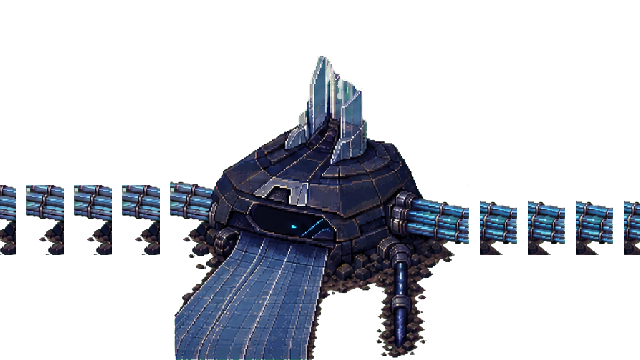
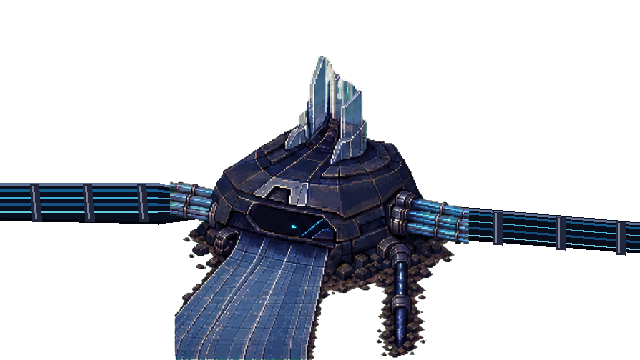
Location: author continuous coupler conduits

Changed region(s): [[0.0, 0.4889, 0.3125, 0.7333], [0.7188, 0.55, 1.0, 0.7333]]

diff --git a/horizon-archive-game/test/signalCouplerProduction.test.js b/horizon-archive-game/test/signalCouplerProduction.test.js
@@ -27,6 +27,16 @@ test("production coupler locks six bodies and animates only the membrane", async
   assert.equal(manifest.unique_screen_hashes, 6);
   assert.equal(manifest.only_screen_pixels_change, true);
   assert.equal(manifest.side_connections_reach_scene_edges, true);
+  assert.equal(manifest.side_connections_are_continuous, true);
+  assert.equal(manifest.transparent_break_count, 0);
+  assert.deepEqual(manifest.narrow_derivative_dimensions, [320, 180]);
+  assert.equal(manifest.narrow_derivative_resampling, "nearest-neighbor");
+  assert.deepEqual(manifest.connection_continuity_scanlines, {
+    left_640x360: { y: 202, x: [0, 210] },
+    right_640x360: { y: 224, x: [430, 639] },
+    left_320x180: { y: 101, x: [0, 105] },
+    right_320x180: { y: 112, x: [215, 319] },
+  });
   assert.equal(manifest.source_is_not_64px_preview, true);
   assert.equal(manifest.detail_retention_by_frame.length, 6);
   assert.ok(manifest.detail_retention_by_frame.every(({ source_subject_dimensions, normalized_subject_dimensions }) =>

diff --git a/Concept Art Book/production-pixel/AB-01/signal-coupler/build_production_signal_coupler.py b/Concept Art Book/production-pixel/AB-01/signal-coupler/build_production_signal_coupler.py
@@ -9,6 +9,7 @@ from PIL import Image, ImageChops, ImageDraw, ImageSequence
 
 ROOT = Path(__file__).resolve().parent
 SOURCE = ROOT / "terminal-signal-coupler-connected-no-tongue-tube-sheet-alpha.png"
+MEADOW_SOURCE = ROOT.parents[3] / "Glass Meadow Example.png"
 OUTPUT = ROOT / "production"
 FRAMES_DIR = OUTPUT / "frames"
 QA_DIR = OUTPUT / "qa"
@@ -95,28 +96,62 @@ def stable_objects(cells: list[Image.Image], mask: Image.Image) -> list[Image.Im
     return [Image.composite(cell, base, mask) for cell in cells]
 
 
-def extend_side_connections(scene: Image.Image, stable_object: Image.Image) -> None:
-    """Continue the approved side channels through both scene crops.
+def draw_side_connections(scene: Image.Image) -> None:
+    """Author continuous phase conduits from the coupler to both scene crops.
 
-    The extension reuses only the object's real cable pixels. It does not draw
-    replacement geometry, and it is baked into the invariant body layer.
+    The selected source already contains the collars and the first lengths of
+    both side bundles. This body layer continues their perspective beneath the
+    source object with uninterrupted substrate, then adds irregular service
+    sleeves on top. Unlike the earlier repeated-alpha method, the sleeves never
+    create transparent breaks in the load-bearing conduit.
     """
-    x_origin, y_origin = OBJECT_ORIGIN
-    segment_width = 48
-    cable_top = 145
-    cable_bottom = 215
-    left_segment = stable_object.crop((0, cable_top, segment_width, cable_bottom))
-    right_segment = stable_object.crop((OBJECT_SIZE - segment_width, cable_top, OBJECT_SIZE, cable_bottom))
+    draw = ImageDraw.Draw(scene)
 
-    x = x_origin - segment_width
-    while x > -segment_width:
-        scene.alpha_composite(left_segment, (x, y_origin + cable_top))
-        x -= segment_width
+    # Left bundle: a low four-lane bus travels beyond the left crop. Its final
+    # section runs beneath the source object so the generated collar hides the
+    # join instead of exposing a familiar loose cable end.
+    left_outer = [(0, 183), (159, 183), (210, 193), (210, 216), (158, 224), (0, 219)]
+    draw.polygon(left_outer, fill=(10, 15, 31, 255))
+    draw.line([(0, 184), (159, 184), (208, 194)], fill=(93, 111, 149, 255), width=3)
+    draw.line([(0, 218), (158, 222), (208, 215)], fill=(3, 5, 15, 255), width=4)
+    for offset, color, width in (
+        (0, (18, 97, 145, 255), 3),
+        (7, (61, 174, 214, 255), 2),
+        (14, (20, 82, 132, 255), 3),
+        (21, (103, 203, 228, 255), 2),
+    ):
+        draw.line([(0, 190 + offset), (157, 190 + offset), (207, 198 + offset // 2)], fill=color, width=width)
+    for x in (30, 83, 137):
+        draw.polygon(
+            [(x, 184), (x + 8, 184), (x + 11, 221), (x + 2, 221)],
+            fill=(35, 39, 60, 255),
+        )
+        draw.line([(x + 2, 186), (x + 5, 218)], fill=(119, 126, 154, 255), width=2)
 
-    x = x_origin + OBJECT_SIZE
-    while x < SCENE_SIZE[0]:
-        scene.alpha_composite(right_segment, (x, y_origin + cable_top))
-        x += segment_width
+    # Right bundle: perspective drops toward the lower-right crop. The varied
+    # sleeve spacing records maintenance phases without interrupting the bus.
+    right_outer = [(430, 204), (468, 207), (640, 222), (640, 253), (466, 239), (430, 235)]
+    draw.polygon(right_outer, fill=(9, 14, 29, 255))
+    draw.line([(431, 205), (468, 209), (640, 224)], fill=(94, 112, 150, 255), width=3)
+    draw.line([(431, 234), (466, 238), (640, 251)], fill=(3, 5, 14, 255), width=4)
+    for offset, color, width in (
+        (0, (21, 93, 143, 255), 3),
+        (7, (71, 187, 221, 255), 2),
+        (14, (18, 77, 126, 255), 3),
+        (21, (111, 209, 230, 255), 2),
+    ):
+        draw.line(
+            [(432, 211 + offset), (468, 213 + offset), (640, 228 + offset)],
+            fill=color,
+            width=width,
+        )
+    for x in (493, 556, 616):
+        rise = (x - 468) // 12
+        draw.polygon(
+            [(x, 209 + rise), (x + 9, 210 + rise), (x + 9, 243 + rise), (x, 242 + rise)],
+            fill=(34, 39, 61, 255),
+        )
+        draw.line([(x + 2, 211 + rise), (x + 2, 240 + rise)], fill=(121, 129, 156, 255), width=2)
 
 
 def scene_frames(objects: list[Image.Image]) -> tuple[list[Image.Image], Image.Image]:
@@ -126,7 +161,7 @@ def scene_frames(objects: list[Image.Image]) -> tuple[list[Image.Image], Image.I
     frames: list[Image.Image] = []
     for stable_object in objects:
         scene = Image.new("RGBA", SCENE_SIZE, (0, 0, 0, 0))
-        extend_side_connections(scene, objects[0])
+        draw_side_connections(scene)
         scene.alpha_composite(stable_object, OBJECT_ORIGIN)
         frames.append(scene)
     return frames, scene_mask
@@ -198,6 +233,24 @@ def save_gif(frames: list[Image.Image], path: Path) -> None:
     )
 
 
+def save_scene_qa(frame: Image.Image) -> None:
+    """Save composition evidence without merging the overlay into world art."""
+    meadow = Image.open(MEADOW_SOURCE).convert("RGBA")
+    scale = max(SCENE_SIZE[0] / meadow.width, SCENE_SIZE[1] / meadow.height)
+    resized = meadow.resize(
+        (round(meadow.width * scale), round(meadow.height * scale)),
+        Image.Resampling.LANCZOS,
+    )
+    left = (resized.width - SCENE_SIZE[0]) // 2
+    top = (resized.height - SCENE_SIZE[1]) // 2
+    background = resized.crop((left, top, left + SCENE_SIZE[0], top + SCENE_SIZE[1]))
+    background.alpha_composite(frame)
+    background.save(QA_DIR / "terminal-signal-coupler-meadow-composite-640x360.png")
+    background.resize((320, 180), Image.Resampling.NEAREST).save(
+        QA_DIR / "terminal-signal-coupler-meadow-composite-320x180.png"
+    )
+
+
 def validate(
     frames: list[Image.Image],
     scene_mask: Image.Image,
@@ -245,6 +298,22 @@ def validate(
             "Production coupler retains less than 70% of the selected source's linear subject detail"
         )
 
+    # These centerlines sit inside the authored load-bearing substrate rather
+    # than decorative highlights. Every logical column must remain opaque from
+    # the crop through the hidden join beneath the selected source object.
+    alpha = frames[0].getchannel("A")
+    left_continuity = all(alpha.getpixel((x, 202)) >= 128 for x in range(0, 211))
+    right_continuity = all(alpha.getpixel((x, 224)) >= 128 for x in range(430, SCENE_SIZE[0]))
+    if not left_continuity or not right_continuity:
+        raise ValueError("An authored side conduit contains a transparent break")
+
+    narrow = frames[0].resize((320, 180), Image.Resampling.NEAREST)
+    narrow_alpha = narrow.getchannel("A")
+    narrow_left_continuity = all(narrow_alpha.getpixel((x, 101)) >= 128 for x in range(0, 106))
+    narrow_right_continuity = all(narrow_alpha.getpixel((x, 112)) >= 128 for x in range(215, 320))
+    if not narrow_left_continuity or not narrow_right_continuity:
+        raise ValueError("The 320 x 180 derivative breaks conduit continuity")
+
     return {
         "source_dimensions": list(Image.open(SOURCE).size),
         "production_dimensions": list(SCENE_SIZE),
@@ -258,6 +327,16 @@ def validate(
         "unique_screen_hashes": 6,
         "only_screen_pixels_change": True,
         "side_connections_reach_scene_edges": True,
+        "side_connections_are_continuous": True,
+        "transparent_break_count": 0,
+        "connection_continuity_scanlines": {
+            "left_640x360": {"y": 202, "x": [0, 210]},
+            "right_640x360": {"y": 224, "x": [430, 639]},
+            "left_320x180": {"y": 101, "x": [0, 105]},
+            "right_320x180": {"y": 112, "x": [215, 319]},
+        },
+        "narrow_derivative_dimensions": [320, 180],
+        "narrow_derivative_resampling": "nearest-neighbor",
         "source_is_not_64px_preview": True,
         "detail_retention_by_frame": detail_metrics,
         "minimum_linear_detail_retention": minimum_linear_detail_retention,
@@ -276,6 +355,9 @@ def main() -> None:
     for index, frame in enumerate(frames, start=1):
         frame.save(FRAMES_DIR / f"terminal-coupler-{index:02d}-640x360.png")
     frames[2].save(OUTPUT / "terminal-signal-coupler-available-640x360.png")
+    narrow_still = frames[2].resize((320, 180), Image.Resampling.NEAREST)
+    narrow_still.save(QA_DIR / "terminal-signal-coupler-available-320x180.png")
+    save_scene_qa(frames[2])
     gif_path = OUTPUT / "terminal-signal-coupler-loop-640x360.gif"
     save_gif(frames, gif_path)
     scene_mask.save(QA_DIR / "terminal-signal-coupler-screen-mask-640x360.png")

diff --git a/Concept Art Book/WORK_LOG.md b/Concept Art Book/WORK_LOG.md
@@ -1,5 +1,13 @@
 # Location Scout Work Log
 
+## 2026-07-13 - Signal-coupler continuous Machine conduits
+
+- **Completed:** replaced the scene overlay's repeated `48 px` alpha fragments with two continuous authored phase conduits that disappear through the left and right crops. Each side now has one uninterrupted load-bearing substrate, four differently weighted energy/data lanes, and irregular maintenance sleeves layered over rather than interrupting the connection. The selected clean tongue, first-person composition, `640 x 360` object placement, existing Meadow hotspot, and membrane-only animation remain unchanged.
+- **Files changed:** updated the deterministic production builder, rebuilt its six scene frames/GIF/still/manifest, added native and exact nearest-neighbor Meadow composition QA plus a `320 x 180` transparent derivative, updated the signal-coupler package README and focused production regression test, and updated this log. No source exploration, runtime layout, hotspot, scene raster, story, curriculum, hidden lore, or unrelated user file changed.
+- **Validation:** all six production PNG bodies and all six decoded GIF bodies retain one body hash; six screen hashes remain distinct; `3,596` membrane pixels are the only animated pixels. Continuous-alpha scans pass for left `x=0..210 @ y=202` and right `x=430..639 @ y=224`, plus their nearest-neighbor `320 x 180` derivatives; transparent break count is zero. Native and narrow Meadow composites were visually reviewed for crop reach, clean tongue, first-person viewpoint, screen legibility, and hotspot continuity.
+- **Next recommended item:** Curse Art Director should judge the native Meadow composite for environmental integration and originality. If it passes, Accessibility Sentinel should confirm the unchanged Terminal hotspot/focus geometry against the new uninterrupted side silhouettes at `640 x 480` and `320 x 240`.
+- **Unresolved risks:** the long exposed phase bundles are deliberately readable as infrastructure, but their dark casing and bright lanes may still read as human cabling rather than alien subsurface routing. Do not add more geometry unless Curse Art Director identifies that as a blocking originality defect; the current build has closed the measurable alpha-gap failure.
+
 ## 2026-07-13 — Frame-grounded derelict signal-mineral Terminal study
 
 - **Completed:** extracted all **320** frames from Martin's `3840 x 2160`, `30 fps`, `10.67 s` gameplay reference; built a complete frame/time manifest, one all-frame index, ten readable 32-frame sheets, sanitized metadata, and explicit transcript/OCR limits. Analyzed the object's mineral/manufacture contradiction, repeating warning cycle, environmental abandonment, and quiet persistence without translating its marks or copying its design. Added the resulting durable Terminal doctrine and prompt to the art-direction system.

diff --git a/Concept Art Book/production-pixel/AB-01/signal-coupler/README.md b/Concept Art Book/production-pixel/AB-01/signal-coupler/README.md
@@ -35,7 +35,14 @@ The broad front tongue is a clean laminated data bus that continues through the 
 
 `build_production_signal_coupler.py` rebuilds the approved source into the scene-native package under `production/`. The playable master is `640 x 360`, with a `320 x 320` source-derived coupler centered in the foreground and its approved paired side channels continued through both scene crops. It never enlarges or samples the `64 x 64` preview.
 
-The production build emits six lossless PNG frames, a shared-palette animated GIF, a reduced-motion still, a diagnostic membrane mask, and a machine-readable validation manifest. The build fails unless all six PNG bodies and all six decoded GIF bodies are byte-identical outside the membrane, every screen state is distinct, and no animation pixel escapes the fixed membrane.
+The production build emits six lossless PNG frames, a shared-palette animated GIF, a reduced-motion still, a diagnostic membrane mask, native and `320 x 180` composition QA, and a machine-readable validation manifest. Both side bundles are now continuous authored phase conduits: an opaque load-bearing substrate runs from the hidden source collar through the scene crop while irregular repair sleeves sit on top without cutting periodic alpha gaps. The build scans an interior lane across every conduit column at both `640 x 360` and the exact nearest-neighbor `320 x 180` derivative and fails on any transparent break.
+
+Composition evidence remains separate from the transparent runtime overlay:
+
+- `production/qa/terminal-signal-coupler-meadow-composite-640x360.png`
+- `production/qa/terminal-signal-coupler-meadow-composite-320x180.png`
+
+The build also fails unless all six PNG bodies and all six decoded GIF bodies are byte-identical outside the membrane, every screen state is distinct, and no animation pixel escapes the fixed membrane. The clean tongue, side conduits, service sleeves, substrate conduit, debris, and crop therefore remain frozen while the membrane hums.
 
 ```powershell
 python build_production_signal_coupler.py
